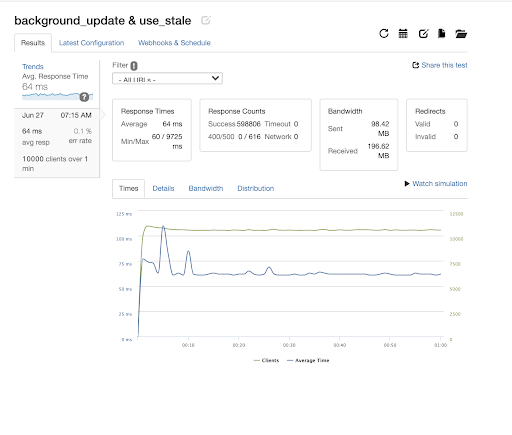
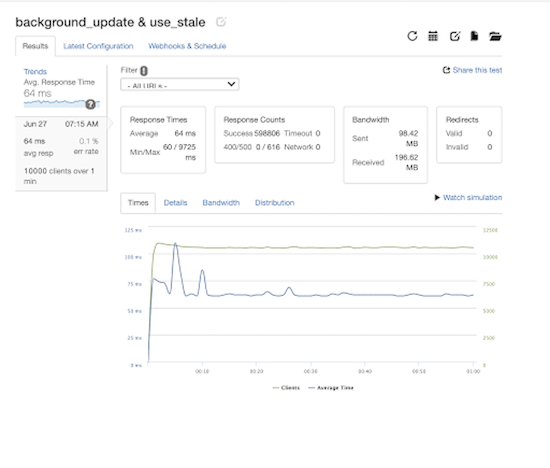
Update journal.md

diff --git a/journal.md b/journal.md
@@ -906,14 +906,66 @@ Deployed remote MongoDB instance and seeded with all records:
 
 ## Phase 4: Scale the Service and Proxy
 
-### Add Nginx
 
-Added Nginx as load balancer witha microcaching strategy in order to decrease the amount of database and overall network calls. This increased performance dramatically:
+### Add Nginx As Load Balancer & Duplicate App Server
 
-#### Post Nginx with microcaching
+Added Nginx as a load balancer. I will now document performance improvement as I add app servers.
 
-10,000rps, 0.1% error rate, 64ms latency - - Goal Accomplished - -
+Current rps: 400.
+
+#### Added Second Server
+
+Adding second server took rps from 400 to 750.
+
+#### Added Third Server
+
+Adding third server took rps from 750 to 1,000.
+
+#### Added Fourth Server
+
+Adding fourth server took rps from 1,000 to 1,500.
+
+#### Implemented Redis Caching For All Servers
+
+Implementing Redis caching took rps from 1,500 to 2,750.
+
+### Implemented Nginx Microcaching
+
+Implemented Nginx microcaching in order to decrease amount of database & network calls. This increased performance dramatically:
+
+#### Nginx Configs:
+
+proxy_cache_path /path/to/cach levels=1:2 keys_zone=micro_cache:1s max_size=10g inactive=60m use_temp_path=off;
+
+upstream balances {
+	#keep_alive;
+	server server1_ip_address;
+	server server2_ip_address;
+	server server3_ip_address;
+	server server4_ip_address;
+}
+
+server {
+	listen 80;
+	listen [::]:80;
+	server_name http://localhost;
+	proxy_cache micro_cache
+
+	location / {
+		proxy_cache micro_cache;
+		proxy_cache_valid any 1s;
+		proxy_cache use_stale;
+		proxy_cache background_update;
+		proxy_pass http://balancees
+	}
+}
+
+#### Post Nginx Microcaching Results
+
+10,000rps, 0.1% error rate, 64ms latency - - Goal Accomplished! - -
 
 ![10,000 RPS](10krps64ms.png)
+
+### Loader.io Test results:
 
 https://docs.google.com/document/d/1WyrrQAev9G9keqhnc3yk6gbyuxmEsbZ0dk0uief2EUw/edit?usp=sharing
